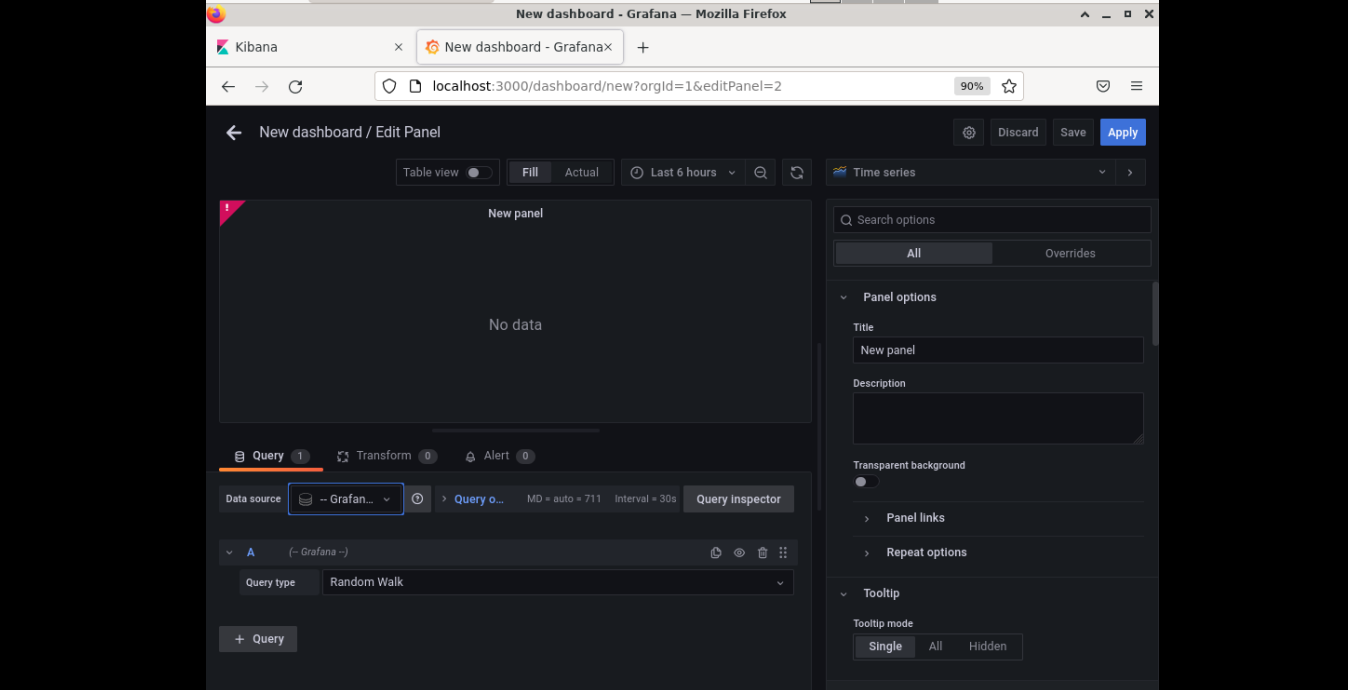
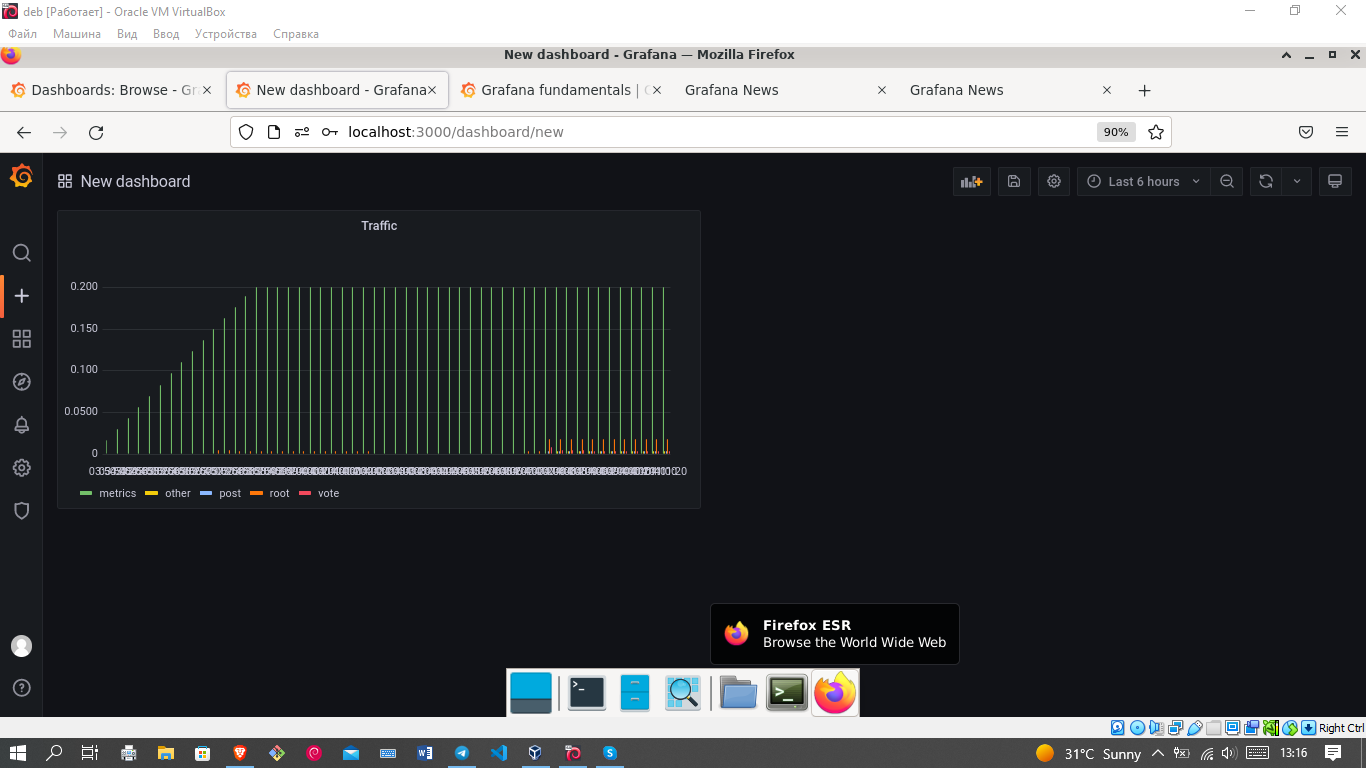
update

diff --git a/tasks/task7/Zabbix/README.md b/tasks/task7/Zabbix/README.md
@@ -63,66 +63,3 @@ Then inside Dashboard section, I added new widget of Discovery rules and I chose
 
 <hr>
 
-<h1><b>ELK</b></h1>
-
-<h1>TASK 1</h1>
-
-ELK (Elasticsearch, Logstash and Kibana needs very huge amount of RAM and CPU, because they depend on each other and works in real time, So I installed a new VM with 8Gigs and though It consumed aounrd 7Gigs.
-
-I used docker compose for installing them, then I enabled the ports of all elk like 9200, 5044 and 5601
-
-<h1>TASK 2</h1>
-
-In order to get logs from docker I used the special dpkg application that integrartes with docker and shows all dockers statistics, I have also uncommented some settings inside docker settings, all of them are written in commands txt file
-
-<h1>TASK 3</h1>
-
-I have custimezed the dashboard which shows the web traffic, it can show all the datasa usage, up and down speed, used by which os and etc
- 
-<h1>TASK 5</h1>
-
-By default, monitoring section in elk is disabled, so I enabled it and it showed all my cpu, ram, containers statistics
-
- 
-<h1>TASK 6</h1>
-
-So I have learnt a lot of features of ELK such as:
-
-Monitoring
-
-Management
-
-Scalability
-
-Real-time results
-
-<hr>
-
-<h1><b>Grafana</b></h1>
-
-<h1>TASK 1</h1>
- 
-I installed Grafana with docker by port 3000 with docker run command in detatched mode
-
-<h1>TASK 2</h1>
- 
-When I tapped on configuration, it asked me where to integrate, I tapped on elasticsearch and written url of it with port:9200 then I also written credentials and user with password
-
-<h1>TASK 3</h1>
- 
-I installed the dashboard which shows the datas & sources of ELK from dashboards section
-
-<h1>TASK 4</h1>
-
-Grafana monitoring tool has also a lot of features like:
-
-Flexible visualization
-
-Simple UI
-
-Easy to understand
-
-Different statistic types
-
-<hr>
-

diff --git a/tasks/task7/ELK/README.md b/tasks/task7/ELK/README.md
@@ -1,0 +1,32 @@
+<h1><b>ELK</b></h1>
+
+<h1>TASK 1</h1>
+
+ELK (Elasticsearch, Logstash and Kibana needs very huge amount of RAM and CPU, because they depend on each other and works in real time, So I installed a new VM with 8Gigs and though It consumed aounrd 7Gigs.
+
+I used docker compose for installing them, then I enabled the ports of all elk like 9200, 5044 and 5601
+
+<h1>TASK 2</h1>
+
+In order to get logs from docker I used the special dpkg application that integrartes with docker and shows all dockers statistics, I have also uncommented some settings inside docker settings, all of them are written in commands txt file
+
+<h1>TASK 3</h1>
+
+I have custimezed the dashboard which shows the web traffic, it can show all the datasa usage, up and down speed, used by which os and etc
+ 
+<h1>TASK 5</h1>
+
+By default, monitoring section in elk is disabled, so I enabled it and it showed all my cpu, ram, containers statistics
+
+ 
+<h1>TASK 6</h1>
+
+So I have learnt a lot of features of ELK such as:
+
+Monitoring
+
+Management
+
+Scalability
+
+Real-time results

diff --git a/tasks/task7/Grafana/README.md b/tasks/task7/Grafana/README.md
@@ -1,0 +1,36 @@
+<h1><b>Grafana</b></h1>
+
+<hr>
+
+ <h1>TASK 1</h1>
+
+ I installed Grafana with docker compose which also installs loki, prometheus
+
+ <h1>TASK 2</h1>
+
+When I tapped on configuration, it asked me where to integrate, I tapped on elasticsearch and written url of it with port:9200 then I also writtnen credentials and user with password
+
+I also integrated it with prometeus (9090) and loki (3100)
+
+ <h1>TASK 3</h1>
+
+ I installed the dashboard which shows the request duration seconds, I have written a querry for that as:
+sum(rate(tns_request_duration_seconds_count[5m])) by(route)
+
+Then inside legend field, I changed it to {{route}}
+
+I also changed the name to traffic with bar chart
+
+ <h1>TASK 4</h1>
+
+ Grafana monitoring tool has also a lot of features like:
+
+ Flexible visualization
+
+ Simple UI
+
+ Easy to understand
+
+ Different statistic types
+
+<hr>
